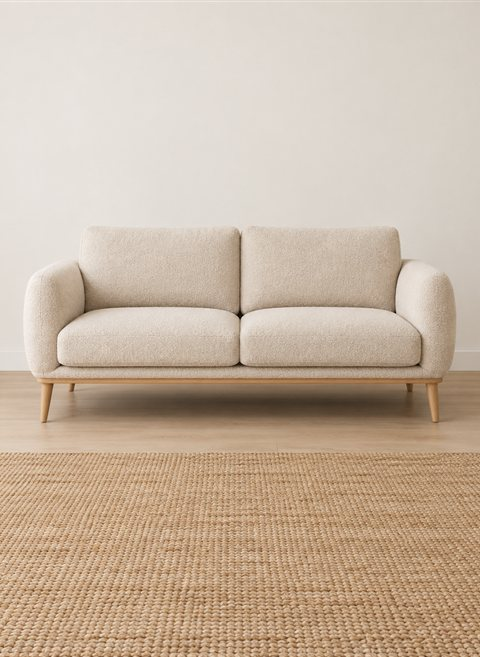
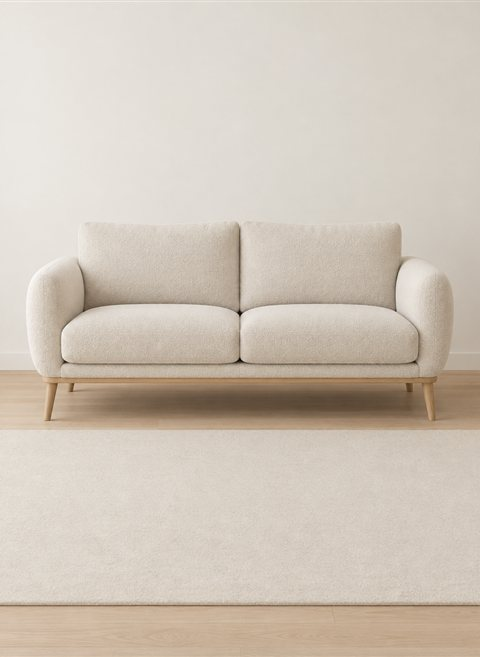
버티컬커머스 — 히어로 자사 상품을 머쉬룸 무드등으로 · 소파 연출 러그를 소파와 같은 크림 톤으로 (patch-403)

diff --git a/vertical-commerce.html b/vertical-commerce.html
@@ -18,6 +18,7 @@
 <style>
   /* =====================================================================
      [개발 전달] 버티컬커머스 (채널마케팅) 페이지 기록 (2026-11-11)
+     · 2026-11-12 patch-403: 히어로 자사 광고 상품 = 오크 사이드테이블 → 머쉬룸 무드등 크림(wr-lamp.jpg · 25% 59,000) · 무신사 목록의 무드등 자리는 사이드테이블로 맞바꿈 · 오늘의집 필터 칩 원목 → 조명 · 소파 연출(wr-sofa) 러그를 소파와 같은 크림 톤으로 다시 생성
      · 2026-11-12 patch-402: 연출 이미지 다시 생성 — 창틀 · 나뭇잎 그림자 없는 부드러운 확산광 (wr-room · wr-sofa) · 테이블을 뚫림 없는 사각 기둥 받침으로 바꾸고 제품 단독(wr-table)도 같은 테이블로 맞춤 (피그마 AI · 640 JPG)
      · 2026-11-12 patch-401: 자사 상품 단독 이미지(wr-table.jpg) → 연출 사진(wr-room.jpg)과 같은 십자 다리 오크 원형 테이블로 교체 (피그마 AI · 640 JPG) · 히어로 · 광고 소재 비교 A 등 5곳 같은 제품
      · 2026-11-11 patch-367: 히어로 떠 있는 카드 위치 — 채널 입점 현황 = 왼쪽 아래(left 120 · bottom 40) · 채널 광고 수익률 = 오른쪽 위(top 130 · right 120)
@@ -467,9 +468,9 @@
   <div class="container">
     <div class="sh-visual rv vc-hv" style="--d:260ms" aria-hidden="true">   <!-- patch-356: 휴대폰 3대 캐러셀 · 앞 화면 = 제목 롤링 채널 앱의 상품 검색 결과(오늘의집 2열 · 쿠팡 목록 · 무신사 3열) · 우리 상품(우드앤룸) 1곳 블루 링 + 광고 배지 · 롤링 2.4초에 맞춰 다음 휴대폰이 앞으로 (스크립트 vc-hero)
          · 주변: 왼쪽 = 채널 입점 현황 카드(무신사 심사 중 → 판매 중) / 오른쪽 위 = 주문 알림(채널 로고 · 이름 교체) · 오른쪽 아래 = 채널 광고 수익률 · 태블릿 = 휴대폰 2대(290×404 · 간격 20) · 모바일 = 1대 -->
-      <div class="vc-ph p0" data-ch="0"><div class="vc-scr"><div class="vc-ab"><img src="assets/common/brand/ohou.svg" alt=""><span class="vc-q"><svg viewBox="0 0 24 24" width="14" height="14" fill="none" stroke="currentColor" stroke-width="2" stroke-linecap="round" stroke-linejoin="round"><circle cx="11" cy="11" r="6.5"/><path d="M20 20l-4.2-4.2"/></svg><b>사이드테이블</b></span><svg class="vc-ct" viewBox="0 0 24 24" width="20" height="20" fill="none" stroke="currentColor" stroke-width="1.8" stroke-linecap="round" stroke-linejoin="round"><path d="M3 4h2.2l2.3 11h10.8l2-8H6.4"/><circle cx="9.5" cy="19.5" r="1.3"/><circle cx="17" cy="19.5" r="1.3"/></svg></div><nav class="vc-chp"><span class="on">추천순</span><span>원목</span><span>무료배송</span><span>오늘출발</span></nav><ul class="vc-g2"><li class="me"><i><img src="assets/geo/interior/wr-table.jpg" alt=""><em class="vc-ad">광고</em></i><small>우드앤룸</small><b>오크 원형 사이드테이블 50cm</b><strong><u>31%</u>89,000</strong><span>★ 4.9 · 리뷰 1,204</span></li><li><i><img src="assets/geo/interior/cp-metal.jpg" alt=""></i><small>홈스틸</small><b>메탈 원형 사이드테이블</b><strong><u>20%</u>39,900</strong><span>★ 4.6 · 리뷰 3,812</span></li><li><i><img src="assets/geo/interior/cp-rattan.jpg" alt=""></i><small>라탄하우스</small><b>라탄 원형 스툴 겸 사이드테이블</b><strong><u>15%</u>49,000</strong><span>★ 4.7 · 리뷰 2,045</span></li><li><i><img src="assets/geo/interior/cp-glass.jpg" alt=""></i><small>글라스데이</small><b>유리 화병 S 미니</b><strong><u>10%</u>19,800</strong><span>★ 4.8 · 리뷰 968</span></li></ul></div></div>
-      <div class="vc-ph p1" data-ch="1"><div class="vc-scr"><div class="vc-ab"><img src="assets/common/brand/coupang.svg" alt=""><span class="vc-q"><svg viewBox="0 0 24 24" width="14" height="14" fill="none" stroke="currentColor" stroke-width="2" stroke-linecap="round" stroke-linejoin="round"><circle cx="11" cy="11" r="6.5"/><path d="M20 20l-4.2-4.2"/></svg><b>사이드테이블</b></span><svg class="vc-ct" viewBox="0 0 24 24" width="20" height="20" fill="none" stroke="currentColor" stroke-width="1.8" stroke-linecap="round" stroke-linejoin="round"><path d="M3 4h2.2l2.3 11h10.8l2-8H6.4"/><circle cx="9.5" cy="19.5" r="1.3"/><circle cx="17" cy="19.5" r="1.3"/></svg></div><nav class="vc-chp"><span class="on">쿠팡 랭킹순</span><span>낮은가격순</span><span>판매량순</span></nav><ul class="vc-ls"><li class="me"><i><img src="assets/geo/interior/wr-table.jpg" alt=""><em class="vc-ad">AD</em></i><div><b>우드앤룸 오크 원형 사이드테이블 50cm</b><strong><u>31%</u>89,000<small>원</small></strong><small>내일(목) 도착 보장</small><span><i>★★★★★</i> (1,204)</span></div></li><li><i><img src="assets/geo/interior/cp-metal.jpg" alt=""></i><div><b>홈스틸 메탈 원형 사이드테이블</b><strong><u>20%</u>39,900<small>원</small></strong><small>내일(목) 도착 보장</small><span><i>★★★★★</i> (3,812)</span></div></li><li><i><img src="assets/geo/interior/cp-rattan.jpg" alt=""></i><div><b>라탄하우스 라탄 원형 스툴 겸 사이드테이블</b><strong><u>15%</u>49,000<small>원</small></strong><small>내일(목) 도착 보장</small><span><i>★★★★★</i> (2,045)</span></div></li><li><i><img src="assets/geo/interior/cp-glass.jpg" alt=""></i><div><b>글라스데이 유리 화병 S 미니</b><strong><u>10%</u>19,800<small>원</small></strong><small>내일(목) 도착 보장</small><span><i>★★★★★</i> (968)</span></div></li></ul></div></div>
-      <div class="vc-ph p2" data-ch="2"><div class="vc-scr"><div class="vc-ab"><img src="assets/common/brand/musinsa.svg" alt=""><span class="vc-q"><svg viewBox="0 0 24 24" width="14" height="14" fill="none" stroke="currentColor" stroke-width="2" stroke-linecap="round" stroke-linejoin="round"><circle cx="11" cy="11" r="6.5"/><path d="M20 20l-4.2-4.2"/></svg><b>사이드테이블</b></span><svg class="vc-ct" viewBox="0 0 24 24" width="20" height="20" fill="none" stroke="currentColor" stroke-width="1.8" stroke-linecap="round" stroke-linejoin="round"><path d="M3 4h2.2l2.3 11h10.8l2-8H6.4"/><circle cx="9.5" cy="19.5" r="1.3"/><circle cx="17" cy="19.5" r="1.3"/></svg></div><nav class="vc-chp"><span class="on">추천순</span><span>신상품</span><span>판매순</span><span>할인율순</span></nav><ul class="vc-g3"><li class="me"><i><img src="assets/geo/interior/wr-table.jpg" alt=""><em class="vc-ad">광고</em></i><small>우드앤룸</small><b>오크 원형 사이드테이블 50cm</b><strong><u>31%</u>89,000</strong></li><li><i><img src="assets/geo/interior/cp-metal.jpg" alt=""></i><small>홈스틸</small><b>메탈 원형 사이드테이블</b><strong><u>20%</u>39,900</strong></li><li><i><img src="assets/geo/interior/cp-rattan.jpg" alt=""></i><small>라탄하우스</small><b>라탄 원형 스툴 겸 사이드테이블</b><strong><u>15%</u>49,000</strong></li><li><i><img src="assets/geo/interior/cp-glass.jpg" alt=""></i><small>글라스데이</small><b>유리 화병 S 미니</b><strong><u>10%</u>19,800</strong></li><li><i><img src="assets/geo/interior/wr-lamp.jpg" alt=""></i><small>우드앤룸</small><b>머쉬룸 무드등</b><strong><u>25%</u>59,000</strong></li><li><i><img src="assets/geo/interior/cp-cushion.jpg" alt=""></i><small>리넨앤코</small><b>린넨 쿠션 커버</b><strong><u>12%</u>15,900</strong></li></ul></div></div>
+      <div class="vc-ph p0" data-ch="0"><div class="vc-scr"><div class="vc-ab"><img src="assets/common/brand/ohou.svg" alt=""><span class="vc-q"><svg viewBox="0 0 24 24" width="14" height="14" fill="none" stroke="currentColor" stroke-width="2" stroke-linecap="round" stroke-linejoin="round"><circle cx="11" cy="11" r="6.5"/><path d="M20 20l-4.2-4.2"/></svg><b>사이드테이블</b></span><svg class="vc-ct" viewBox="0 0 24 24" width="20" height="20" fill="none" stroke="currentColor" stroke-width="1.8" stroke-linecap="round" stroke-linejoin="round"><path d="M3 4h2.2l2.3 11h10.8l2-8H6.4"/><circle cx="9.5" cy="19.5" r="1.3"/><circle cx="17" cy="19.5" r="1.3"/></svg></div><nav class="vc-chp"><span class="on">추천순</span><span>조명</span><span>무료배송</span><span>오늘출발</span></nav><ul class="vc-g2"><li class="me"><i><img src="assets/geo/interior/wr-lamp.jpg" alt=""><em class="vc-ad">광고</em></i><small>우드앤룸</small><b>머쉬룸 무드등 크림</b><strong><u>25%</u>59,000</strong><span>★ 4.9 · 리뷰 1,204</span></li><li><i><img src="assets/geo/interior/cp-metal.jpg" alt=""></i><small>홈스틸</small><b>메탈 원형 사이드테이블</b><strong><u>20%</u>39,900</strong><span>★ 4.6 · 리뷰 3,812</span></li><li><i><img src="assets/geo/interior/cp-rattan.jpg" alt=""></i><small>라탄하우스</small><b>라탄 원형 스툴 겸 사이드테이블</b><strong><u>15%</u>49,000</strong><span>★ 4.7 · 리뷰 2,045</span></li><li><i><img src="assets/geo/interior/cp-glass.jpg" alt=""></i><small>글라스데이</small><b>유리 화병 S 미니</b><strong><u>10%</u>19,800</strong><span>★ 4.8 · 리뷰 968</span></li></ul></div></div>
+      <div class="vc-ph p1" data-ch="1"><div class="vc-scr"><div class="vc-ab"><img src="assets/common/brand/coupang.svg" alt=""><span class="vc-q"><svg viewBox="0 0 24 24" width="14" height="14" fill="none" stroke="currentColor" stroke-width="2" stroke-linecap="round" stroke-linejoin="round"><circle cx="11" cy="11" r="6.5"/><path d="M20 20l-4.2-4.2"/></svg><b>사이드테이블</b></span><svg class="vc-ct" viewBox="0 0 24 24" width="20" height="20" fill="none" stroke="currentColor" stroke-width="1.8" stroke-linecap="round" stroke-linejoin="round"><path d="M3 4h2.2l2.3 11h10.8l2-8H6.4"/><circle cx="9.5" cy="19.5" r="1.3"/><circle cx="17" cy="19.5" r="1.3"/></svg></div><nav class="vc-chp"><span class="on">쿠팡 랭킹순</span><span>낮은가격순</span><span>판매량순</span></nav><ul class="vc-ls"><li class="me"><i><img src="assets/geo/interior/wr-lamp.jpg" alt=""><em class="vc-ad">AD</em></i><div><b>우드앤룸 머쉬룸 무드등 크림</b><strong><u>25%</u>59,000<small>원</small></strong><small>내일(목) 도착 보장</small><span><i>★★★★★</i> (1,204)</span></div></li><li><i><img src="assets/geo/interior/cp-metal.jpg" alt=""></i><div><b>홈스틸 메탈 원형 사이드테이블</b><strong><u>20%</u>39,900<small>원</small></strong><small>내일(목) 도착 보장</small><span><i>★★★★★</i> (3,812)</span></div></li><li><i><img src="assets/geo/interior/cp-rattan.jpg" alt=""></i><div><b>라탄하우스 라탄 원형 스툴 겸 사이드테이블</b><strong><u>15%</u>49,000<small>원</small></strong><small>내일(목) 도착 보장</small><span><i>★★★★★</i> (2,045)</span></div></li><li><i><img src="assets/geo/interior/cp-glass.jpg" alt=""></i><div><b>글라스데이 유리 화병 S 미니</b><strong><u>10%</u>19,800<small>원</small></strong><small>내일(목) 도착 보장</small><span><i>★★★★★</i> (968)</span></div></li></ul></div></div>
+      <div class="vc-ph p2" data-ch="2"><div class="vc-scr"><div class="vc-ab"><img src="assets/common/brand/musinsa.svg" alt=""><span class="vc-q"><svg viewBox="0 0 24 24" width="14" height="14" fill="none" stroke="currentColor" stroke-width="2" stroke-linecap="round" stroke-linejoin="round"><circle cx="11" cy="11" r="6.5"/><path d="M20 20l-4.2-4.2"/></svg><b>사이드테이블</b></span><svg class="vc-ct" viewBox="0 0 24 24" width="20" height="20" fill="none" stroke="currentColor" stroke-width="1.8" stroke-linecap="round" stroke-linejoin="round"><path d="M3 4h2.2l2.3 11h10.8l2-8H6.4"/><circle cx="9.5" cy="19.5" r="1.3"/><circle cx="17" cy="19.5" r="1.3"/></svg></div><nav class="vc-chp"><span class="on">추천순</span><span>신상품</span><span>판매순</span><span>할인율순</span></nav><ul class="vc-g3"><li class="me"><i><img src="assets/geo/interior/wr-lamp.jpg" alt=""><em class="vc-ad">광고</em></i><small>우드앤룸</small><b>머쉬룸 무드등 크림</b><strong><u>25%</u>59,000</strong></li><li><i><img src="assets/geo/interior/cp-metal.jpg" alt=""></i><small>홈스틸</small><b>메탈 원형 사이드테이블</b><strong><u>20%</u>39,900</strong></li><li><i><img src="assets/geo/interior/cp-rattan.jpg" alt=""></i><small>라탄하우스</small><b>라탄 원형 스툴 겸 사이드테이블</b><strong><u>15%</u>49,000</strong></li><li><i><img src="assets/geo/interior/cp-glass.jpg" alt=""></i><small>글라스데이</small><b>유리 화병 S 미니</b><strong><u>10%</u>19,800</strong></li><li><i><img src="assets/geo/interior/wr-table.jpg" alt=""></i><small>우드앤룸</small><b>오크 원형 사이드테이블</b><strong><u>31%</u>89,000</strong></li><li><i><img src="assets/geo/interior/cp-cushion.jpg" alt=""></i><small>리넨앤코</small><b>린넨 쿠션 커버</b><strong><u>12%</u>15,900</strong></li></ul></div></div>
       <div class="sh-float vc-en"><b>채널 입점 현황<small>3곳</small></b><ul><li><img src="assets/common/brand/ohou.svg" alt="">오늘의집<em>판매 중</em></li><li><img src="assets/common/brand/coupang.svg" alt="">쿠팡<em>판매 중</em></li><li><img src="assets/common/brand/musinsa.svg" alt="">무신사<em class="vc-st"><span>심사 중</span><span>판매 중</span></em></li></ul></div>
       <div class="sh-float vc-rs"><b>채널 광고 수익률</b><strong>4.1<small>배</small></strong><span>▲ 0.6 전월 대비</span><svg class="vc-sp" viewBox="0 0 160 40" aria-hidden="true"><defs><linearGradient id="vcSpG" x1="0" y1="0" x2="0" y2="1"><stop offset="0" stop-color="#d92d20" stop-opacity=".16"/><stop offset="1" stop-color="#d92d20" stop-opacity="0"/></linearGradient></defs><path d="M2 32 L24 30 L46 33 L68 24 L90 26 L112 17 L134 14 L156 6 V40 H2 Z" fill="url(#vcSpG)"/><path d="M2 32 L24 30 L46 33 L68 24 L90 26 L112 17 L134 14 L156 6" fill="none" stroke="#d92d20" stroke-width="2" stroke-linejoin="round" stroke-linecap="round"/><circle cx="156" cy="6" r="3" fill="#d92d20"/></svg><em class="vc-spx"><i>5월</i><i>10월</i></em></div>
     </div>
